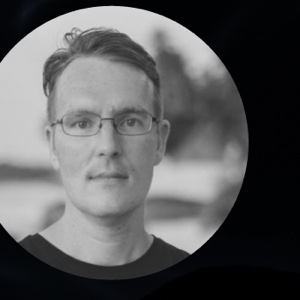
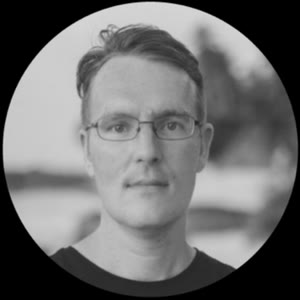
About: new team photos; SMART Visa block height = backdrop aspect
- team-andrey/aleksandra/pavel.jpg replaced from new source PNGs
  (square-cropped to 300x300, 9-18KB); ?v=83 cache-buster on the <img>s.
  Raw team_*.png gitignored.
- .smart-visa min-height (>=900px) = 100vw*942/1672 + 2*section-marketing,
  so the full-bleed smart-back.jpg shows at its own 1672x942 aspect
  without cropping. v=83.

diff --git a/th/about.html b/th/about.html
@@ -7,8 +7,8 @@
 <meta name="description" content="EASY SCAN คือบริษัทเทคโนโลยีในประเทศไทย เชี่ยวชาญการสแกนด้วย LiDAR การทำแผนที่ด้วยโดรน และการสร้างภาพ 3 มิติ ช่วยให้สถาปนิกและนักพัฒนาเข้าใจที่ดินก่อนลงมือก่อสร้าง">
 <link rel="icon" href="../assets/img/logo-mark-white.png">
 <script>document.documentElement.className+=" js";</script>
-<link rel="stylesheet" href="../design-system/styles.css?v=82">
-<link rel="stylesheet" href="../assets/css/style.css?v=82">
+<link rel="stylesheet" href="../design-system/styles.css?v=83">
+<link rel="stylesheet" href="../assets/css/style.css?v=83">
 </head>
 <body>
 <a class="skip-link" href="#main">ข้ามไปยังเนื้อหา</a>
@@ -92,7 +92,7 @@
   </section>
 
   <section class="section why smart-visa">
-    <div class="why__bg" aria-hidden="true"><img src="../assets/img/smart-back.jpg?v=82" alt="" loading="lazy"></div>
+    <div class="why__bg" aria-hidden="true"><img src="../assets/img/smart-back.jpg?v=83" alt="" loading="lazy"></div>
     <div class="wrap">
       <div class="section__head section__head--wide reveal">
         <p class="eyebrow">SMART Visa</p>
@@ -112,21 +112,21 @@
       </div>
       <div class="team reveal">
         <figure class="team-member">
-          <img class="team-member__photo" src="../assets/img/team-andrey.jpg" alt="Andrey Netovanniy" width="300" height="300">
+          <img class="team-member__photo" src="../assets/img/team-andrey.jpg?v=83" alt="Andrey Netovanniy" width="300" height="300">
           <figcaption class="team-member__body">
             <span class="team-member__role">ผู้ก่อตั้งและซีอีโอ · กรรมการผู้จัดการ</span>
             <span class="team-member__name">Andrey Netovanniy</span>
           </figcaption>
         </figure>
         <figure class="team-member">
-          <img class="team-member__photo" src="../assets/img/team-aleksandra.jpg" alt="Aleksandra Gorokhova" width="300" height="300">
+          <img class="team-member__photo" src="../assets/img/team-aleksandra.jpg?v=83" alt="Aleksandra Gorokhova" width="300" height="300">
           <figcaption class="team-member__body">
             <span class="team-member__role">ผู้ร่วมก่อตั้งและประธานเจ้าหน้าที่ฝ่ายพาณิชย์</span>
             <span class="team-member__name">Aleksandra Gorokhova</span>
           </figcaption>
         </figure>
         <figure class="team-member">
-          <img class="team-member__photo" src="../assets/img/team-pavel.jpg" alt="Pavel Andreev" width="300" height="300">
+          <img class="team-member__photo" src="../assets/img/team-pavel.jpg?v=83" alt="Pavel Andreev" width="300" height="300">
           <figcaption class="team-member__body">
             <span class="team-member__role">ผู้ร่วมก่อตั้งและผู้อำนวยการฝ่ายขาย</span>
             <span class="team-member__name">Pavel Andreev</span>
@@ -173,6 +173,6 @@
     </div>
   </div>
 </footer>
-<script src="../assets/js/main.js?v=82"></script>
+<script src="../assets/js/main.js?v=83"></script>
 </body>
 </html>

diff --git a/about.html b/about.html
@@ -7,8 +7,8 @@
 <meta name="description" content="EASY SCAN is a Thailand-based technology company specialising in LiDAR scanning, drone mapping and 3D visualisation — helping architects and developers understand land before building.">
 <link rel="icon" href="assets/img/logo-mark-white.png">
 <script>document.documentElement.className+=" js";</script>
-<link rel="stylesheet" href="design-system/styles.css?v=82">
-<link rel="stylesheet" href="assets/css/style.css?v=82">
+<link rel="stylesheet" href="design-system/styles.css?v=83">
+<link rel="stylesheet" href="assets/css/style.css?v=83">
 </head>
 <body>
 <a class="skip-link" href="#main">Skip to content</a>
@@ -92,7 +92,7 @@
   </section>
 
   <section class="section why smart-visa">
-    <div class="why__bg" aria-hidden="true"><img src="assets/img/smart-back.jpg?v=82" alt="" loading="lazy"></div>
+    <div class="why__bg" aria-hidden="true"><img src="assets/img/smart-back.jpg?v=83" alt="" loading="lazy"></div>
     <div class="wrap">
       <div class="section__head section__head--wide reveal">
         <p class="eyebrow">SMART Visa</p>
@@ -112,21 +112,21 @@
       </div>
       <div class="team reveal">
         <figure class="team-member">
-          <img class="team-member__photo" src="assets/img/team-andrey.jpg" alt="Andrey Netovanniy" width="300" height="300">
+          <img class="team-member__photo" src="assets/img/team-andrey.jpg?v=83" alt="Andrey Netovanniy" width="300" height="300">
           <figcaption class="team-member__body">
             <span class="team-member__role">Founder &amp; CEO · Managing Director</span>
             <span class="team-member__name">Andrey Netovanniy</span>
           </figcaption>
         </figure>
         <figure class="team-member">
-          <img class="team-member__photo" src="assets/img/team-aleksandra.jpg" alt="Aleksandra Gorokhova" width="300" height="300">
+          <img class="team-member__photo" src="assets/img/team-aleksandra.jpg?v=83" alt="Aleksandra Gorokhova" width="300" height="300">
           <figcaption class="team-member__body">
             <span class="team-member__role">Co-Founder &amp; Chief Commercial Officer</span>
             <span class="team-member__name">Aleksandra Gorokhova</span>
           </figcaption>
         </figure>
         <figure class="team-member">
-          <img class="team-member__photo" src="assets/img/team-pavel.jpg" alt="Pavel Andreev" width="300" height="300">
+          <img class="team-member__photo" src="assets/img/team-pavel.jpg?v=83" alt="Pavel Andreev" width="300" height="300">
           <figcaption class="team-member__body">
             <span class="team-member__role">Co-Founder &amp; Sales Director</span>
             <span class="team-member__name">Pavel Andreev</span>
@@ -173,6 +173,6 @@
     </div>
   </div>
 </footer>
-<script src="assets/js/main.js?v=82"></script>
+<script src="assets/js/main.js?v=83"></script>
 </body>
 </html>

diff --git a/th/education.html b/th/education.html
@@ -7,8 +7,8 @@
 <meta name="description" content="เรียนรู้การสแกน LiDAR การทำแผนที่ด้วยโดรน และการวิเคราะห์ภูมิประเทศ 3 มิติ ผ่านเวิร์กช็อปและหลักสูตรอบรมของ EASY SCAN ในประเทศไทย">
 <link rel="icon" href="../assets/img/logo-mark-white.png">
 <script>document.documentElement.className+=" js";</script>
-<link rel="stylesheet" href="../design-system/styles.css?v=82">
-<link rel="stylesheet" href="../assets/css/style.css?v=82">
+<link rel="stylesheet" href="../design-system/styles.css?v=83">
+<link rel="stylesheet" href="../assets/css/style.css?v=83">
 </head>
 <body>
 <a class="skip-link" href="#main">ข้ามไปยังเนื้อหา</a>
@@ -55,7 +55,7 @@
 </nav>
 <main id="main">
   <section class="page-hero page-hero--full">
-    <div class="page-hero__media page-hero__media--light"><img src="../assets/img/education-back.jpg?v=82" alt="Classroom scene with a holographic land model and a hovering drone"></div>
+    <div class="page-hero__media page-hero__media--light"><img src="../assets/img/education-back.jpg?v=83" alt="Classroom scene with a holographic land model and a hovering drone"></div>
     <div class="wrap wrap--wide">
       <p class="breadcrumb"><a href="index.html">หน้าแรก</a><span>/</span> การอบรม</p>
       <h1 class="page-hero__title">หลักสูตร<br>อบรม</h1>
@@ -96,6 +96,6 @@
     </div>
   </div>
 </footer>
-<script src="../assets/js/main.js?v=82"></script>
+<script src="../assets/js/main.js?v=83"></script>
 </body>
 </html>

diff --git a/education.html b/education.html
@@ -7,8 +7,8 @@
 <meta name="description" content="Learn LiDAR scanning, drone mapping and 3D terrain analysis through EASY SCAN's workshops and training programs in Thailand.">
 <link rel="icon" href="assets/img/logo-mark-white.png">
 <script>document.documentElement.className+=" js";</script>
-<link rel="stylesheet" href="design-system/styles.css?v=82">
-<link rel="stylesheet" href="assets/css/style.css?v=82">
+<link rel="stylesheet" href="design-system/styles.css?v=83">
+<link rel="stylesheet" href="assets/css/style.css?v=83">
 </head>
 <body>
 <a class="skip-link" href="#main">Skip to content</a>
@@ -55,7 +55,7 @@
 </nav>
 <main id="main">
   <section class="page-hero page-hero--full">
-    <div class="page-hero__media page-hero__media--light"><img src="assets/img/education-back.jpg?v=82" alt="Classroom scene with a holographic land model and a hovering drone"></div>
+    <div class="page-hero__media page-hero__media--light"><img src="assets/img/education-back.jpg?v=83" alt="Classroom scene with a holographic land model and a hovering drone"></div>
     <div class="wrap wrap--wide">
       <p class="breadcrumb"><a href="index.html">Main</a><span>/</span> Education</p>
       <h1 class="page-hero__title">Education<br>program</h1>
@@ -96,6 +96,6 @@
     </div>
   </div>
 </footer>
-<script src="assets/js/main.js?v=82"></script>
+<script src="assets/js/main.js?v=83"></script>
 </body>
 </html>

diff --git a/th/index.html b/th/index.html
@@ -7,8 +7,8 @@
 <meta name="description" content="ข้อมูลที่ดินอัจฉริยะแบบดิจิทัลเพื่อการพัฒนาที่ชาญฉลาดขึ้น EASY SCAN ใช้ LiDAR และการทำแผนที่ด้วยโดรน เพื่อมอบแบบจำลองภูมิประเทศ 3 มิติที่แม่นยำแก่สถาปนิก นักพัฒนา และเจ้าของที่ดินในประเทศไทยก่อนเริ่มก่อสร้าง">
 <link rel="icon" href="../assets/img/logo-mark-white.png">
 <script>document.documentElement.className+=" js";</script>
-<link rel="stylesheet" href="../design-system/styles.css?v=82">
-<link rel="stylesheet" href="../assets/css/style.css?v=82">
+<link rel="stylesheet" href="../design-system/styles.css?v=83">
+<link rel="stylesheet" href="../assets/css/style.css?v=83">
 </head>
 <body>
 <a class="skip-link" href="#main">ข้ามไปยังเนื้อหา</a>
@@ -276,6 +276,6 @@
   </div>
 </footer>
 
-<script src="../assets/js/main.js?v=82"></script>
+<script src="../assets/js/main.js?v=83"></script>
 </body>
 </html>

diff --git a/th/twin.html b/th/twin.html
@@ -7,8 +7,8 @@
 <meta name="description" content="ดูว่าอาคารของคุณเข้ากับที่ดินอย่างไรด้วยดิจิทัลทวินของ EASY SCAN — แบบจำลองภูมิประเทศ 3 มิติที่แม่นยำ ผสาน LiDAR การทำแผนที่ด้วยโดรน Gaussian Splatting และโฟโตแกรมเมทรี">
 <link rel="icon" href="../assets/img/logo-mark-white.png">
 <script>document.documentElement.className+=" js";</script>
-<link rel="stylesheet" href="../design-system/styles.css?v=82">
-<link rel="stylesheet" href="../assets/css/style.css?v=82">
+<link rel="stylesheet" href="../design-system/styles.css?v=83">
+<link rel="stylesheet" href="../assets/css/style.css?v=83">
 </head>
 <body>
 <a class="skip-link" href="#main">ข้ามไปยังเนื้อหา</a>
@@ -134,6 +134,6 @@
     </div>
   </div>
 </footer>
-<script src="../assets/js/main.js?v=82"></script>
+<script src="../assets/js/main.js?v=83"></script>
 </body>
 </html>

diff --git a/th/contact.html b/th/contact.html
@@ -7,8 +7,8 @@
 <meta name="description" content="ติดต่อ EASY SCAN สำหรับงานสำรวจด้วย LiDAR การทำแผนที่ด้วยโดรน และการสร้างภาพภูมิประเทศ 3 มิติ บนเกาะพะงัน เกาะสมุย และภูเก็ต เราตอบกลับภายใน 24 ชั่วโมง">
 <link rel="icon" href="../assets/img/logo-mark-white.png">
 <script>document.documentElement.className+=" js";</script>
-<link rel="stylesheet" href="../design-system/styles.css?v=82">
-<link rel="stylesheet" href="../assets/css/style.css?v=82">
+<link rel="stylesheet" href="../design-system/styles.css?v=83">
+<link rel="stylesheet" href="../assets/css/style.css?v=83">
 </head>
 <body>
 <a class="skip-link" href="#main">ข้ามไปยังเนื้อหา</a>
@@ -138,6 +138,6 @@
     </div>
   </div>
 </footer>
-<script src="../assets/js/main.js?v=82"></script>
+<script src="../assets/js/main.js?v=83"></script>
 </body>
 </html>

diff --git a/th/monitoring.html b/th/monitoring.html
@@ -7,8 +7,8 @@
 <meta name="description" content="ติดตามความคืบหน้างานก่อสร้างด้วยการสแกน LiDAR 3 มิติ EASY SCAN บันทึกงานดิน งานระบบที่ซ่อนอยู่ และการเปลี่ยนแปลงของไซต์ตลอดการก่อสร้างในประเทศไทย">
 <link rel="icon" href="../assets/img/logo-mark-white.png">
 <script>document.documentElement.className+=" js";</script>
-<link rel="stylesheet" href="../design-system/styles.css?v=82">
-<link rel="stylesheet" href="../assets/css/style.css?v=82">
+<link rel="stylesheet" href="../design-system/styles.css?v=83">
+<link rel="stylesheet" href="../assets/css/style.css?v=83">
 </head>
 <body>
 <a class="skip-link" href="#main">ข้ามไปยังเนื้อหา</a>
@@ -119,6 +119,6 @@
     </div>
   </div>
 </footer>
-<script src="../assets/js/main.js?v=82"></script>
+<script src="../assets/js/main.js?v=83"></script>
 </body>
 </html>

diff --git a/th/concepting.html b/th/concepting.html
@@ -7,8 +7,8 @@
 <meta name="description" content="สแกนที่ดินของคุณด้วย LiDAR และโดรน แล้วทดสอบแนวคิดทางสถาปัตยกรรมบนภูมิประเทศจริงก่อนก่อสร้าง — บริการทดสอบแนวคิดของ EASY SCAN ในประเทศไทย">
 <link rel="icon" href="../assets/img/logo-mark-white.png">
 <script>document.documentElement.className+=" js";</script>
-<link rel="stylesheet" href="../design-system/styles.css?v=82">
-<link rel="stylesheet" href="../assets/css/style.css?v=82">
+<link rel="stylesheet" href="../design-system/styles.css?v=83">
+<link rel="stylesheet" href="../assets/css/style.css?v=83">
 </head>
 <body>
 <a class="skip-link" href="#main">ข้ามไปยังเนื้อหา</a>
@@ -120,6 +120,6 @@
     </div>
   </div>
 </footer>
-<script src="../assets/js/main.js?v=82"></script>
+<script src="../assets/js/main.js?v=83"></script>
 </body>
 </html>

diff --git a/th/museum.html b/th/museum.html
@@ -7,8 +7,8 @@
 <meta name="description" content="พิพิธภัณฑ์ดิจิทัลของ EASY SCAN ใช้การสแกน 3 มิติเพื่ออนุรักษ์และนำเสนอวัตถุทางวัฒนธรรมและแหล่งมรดกผ่านประสบการณ์ดิจิทัลแบบสมจริง">
 <link rel="icon" href="../assets/img/logo-mark-white.png">
 <script>document.documentElement.className+=" js";</script>
-<link rel="stylesheet" href="../design-system/styles.css?v=82">
-<link rel="stylesheet" href="../assets/css/style.css?v=82">
+<link rel="stylesheet" href="../design-system/styles.css?v=83">
+<link rel="stylesheet" href="../assets/css/style.css?v=83">
 </head>
 <body>
 <a class="skip-link" href="#main">ข้ามไปยังเนื้อหา</a>
@@ -127,6 +127,6 @@
     </div>
   </div>
 </footer>
-<script src="../assets/js/main.js?v=82"></script>
+<script src="../assets/js/main.js?v=83"></script>
 </body>
 </html>

diff --git a/th/gaussian.html b/th/gaussian.html
@@ -7,8 +7,8 @@
 <meta name="description" content="EASY SCAN สร้างสถานที่จริงขึ้นใหม่ด้วย Gaussian Splatting — ฉาก 3 มิติเสมือนจริงที่สำรวจได้โดยตรงในเว็บเบราว์เซอร์">
 <link rel="icon" href="../assets/img/logo-mark-white.png">
 <script>document.documentElement.className+=" js";</script>
-<link rel="stylesheet" href="../design-system/styles.css?v=82">
-<link rel="stylesheet" href="../assets/css/style.css?v=82">
+<link rel="stylesheet" href="../design-system/styles.css?v=83">
+<link rel="stylesheet" href="../assets/css/style.css?v=83">
 </head>
 <body>
 <a class="skip-link" href="#main">ข้ามไปยังเนื้อหา</a>
@@ -167,6 +167,6 @@
     </div>
   </div>
 </footer>
-<script src="../assets/js/main.js?v=82"></script>
+<script src="../assets/js/main.js?v=83"></script>
 </body>
 </html>

diff --git a/index.html b/index.html
@@ -7,8 +7,8 @@
 <meta name="description" content="Digital land intelligence for smarter development. EASY SCAN uses LiDAR and drone mapping to give architects, developers and landowners in Thailand accurate 3D terrain models before construction begins.">
 <link rel="icon" href="assets/img/logo-mark-white.png">
 <script>document.documentElement.className+=" js";</script>
-<link rel="stylesheet" href="design-system/styles.css?v=82">
-<link rel="stylesheet" href="assets/css/style.css?v=82">
+<link rel="stylesheet" href="design-system/styles.css?v=83">
+<link rel="stylesheet" href="assets/css/style.css?v=83">
 </head>
 <body>
 <a class="skip-link" href="#main">Skip to content</a>
@@ -276,6 +276,6 @@
   </div>
 </footer>
 
-<script src="assets/js/main.js?v=82"></script>
+<script src="assets/js/main.js?v=83"></script>
 </body>
 </html>
